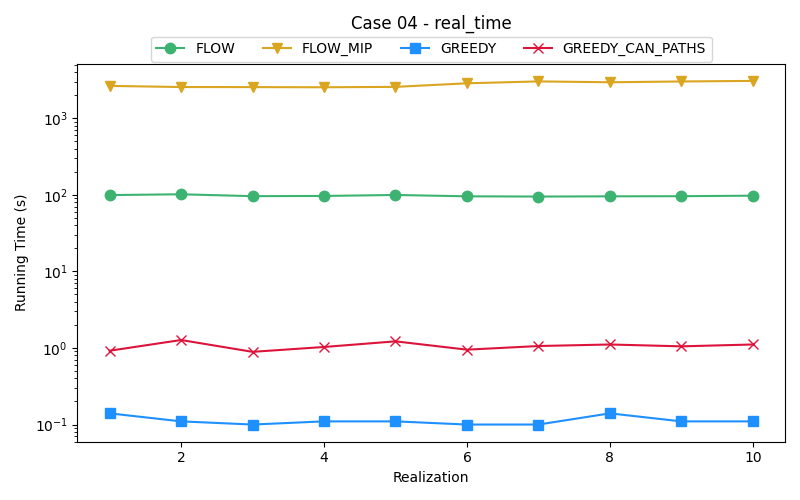
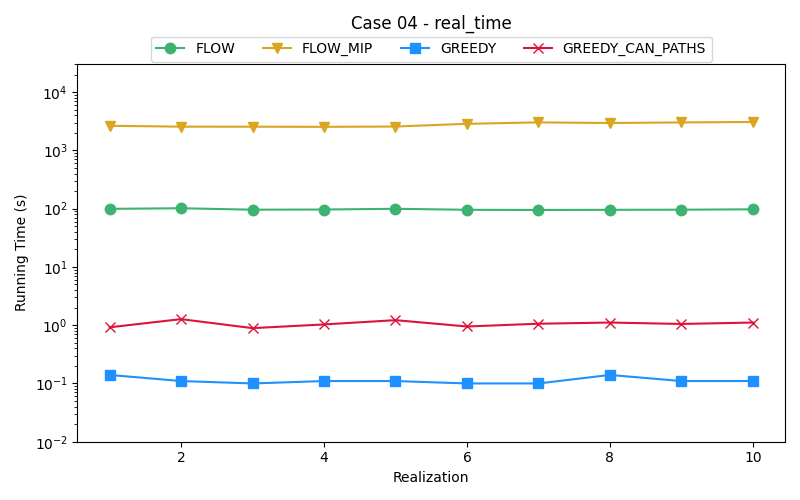
Scale y-axis logarithmically for running time charts

diff --git a/scripts/plot.py b/scripts/plot.py
@@ -93,6 +93,7 @@ def plot(file_ending: str):
         for case, case_files in cases.items():
             plt.figure(figsize=(8, 5))
             plotted_heuristics = {}
+            all_costs = []  # Collect all cost values for y-axis scaling
             for filename in case_files:
                 if file_ending == "_result.txt":
                     heuristic_match = HEURISTIC_PATTERN_OBJECTIVE.search(filename)
@@ -110,6 +111,7 @@ def plot(file_ending: str):
                     heuristic = 'GREEDY_CAN_PATHS'
                 idx = heuristic_to_idx[heuristic]
                 realisations, costs = read_data(os.path.join(dir_path, filename))
+                all_costs.extend(costs)  # Collect costs for scaling
                 # Plot the costs for this heuristic
                 line, = plt.plot(
                     realisations, costs, label=heuristic,
@@ -126,6 +128,14 @@ def plot(file_ending: str):
                 plot_type_folder = 'running_time'
                 ylabel = 'Running Time (s)'
                 plt.yscale('log')  # Use logarithmic scale for running time
+
+                # Set y-axis limits to ensure there's a label above the highest data point
+                if all_costs:
+                    max_value = max(all_costs)
+                    min_value = min(all_costs)
+                    # Set upper limit to be at least one order of magnitude higher than max value
+                    upper_limit = max_value * 10
+                    plt.ylim(bottom=min_value * 0.1, top=upper_limit)
             plt.ylabel(ylabel)
             plt.title(f'Case {case} - {subfolder}', pad=25)
             # Ensure legend order is consistent across all plots
@@ -451,6 +461,12 @@ def create_barcharts(file_ending: str):
                     plot_type_folder = 'running_time'
                     ylabel = 'Average Running Time (s)'
                     plt.yscale('log')  # Use logarithmic scale for running time
+
+                    # Set y-axis limits to ensure there's a label above the highest data point
+                    max_value = max(bar_averages)
+                    # Set upper limit to be at least one order of magnitude higher than max value
+                    upper_limit = max_value * 10
+                    plt.ylim(bottom=min(bar_averages) * 0.1, top=upper_limit)
 
                 plt.ylabel(ylabel)
                 plt.title(f'Case {case} - {subfolder} (Average Values)', pad=20)
